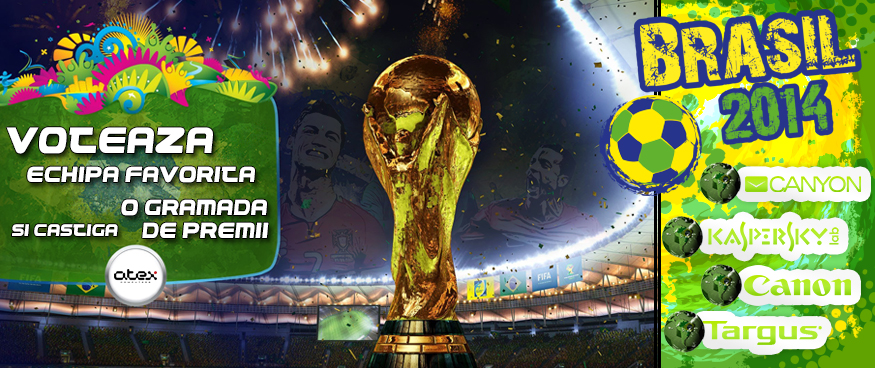
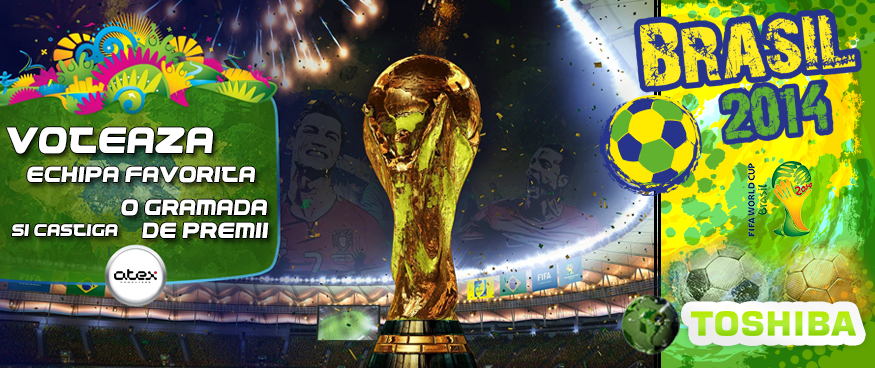
typos and promo updates

Changed region(s): [[0.7097, 0.4185, 1.0, 0.9864]]

diff --git a/atexpc/atex_web/templates/conditions.html b/atexpc/atex_web/templates/conditions.html
@@ -77,8 +77,8 @@
                                 <li class="red-title">Retururi in cazul comenzilor efectuate din alte localitati :</li>
                                 <li>
                                     <B>"Consumatorul are dreptul sa notifice in scris comerciantului ca renunta la cumparare, fara penalitati si fara invocarea unui motiv,
-                                    in termen de 10 zile lucratoare de la primirea produsului sau, in cazul prestarilor de servicii, de la incheierea contractului" </B><br />
-                                    •   Dupa terminarea celor 10 zile si pana la 30 de zile de la data receptionarii produsului veti avea dreptul sa returnati produsul  numai sub urmatoarele conditii: <br />
+                                    in termen de 14 zile lucratoare de la primirea produsului sau, in cazul prestarilor de servicii, de la incheierea contractului" </B><br />
+                                    •   Dupa terminarea celor 14 zile si pana la 30 de zile de la data receptionarii produsului veti avea dreptul sa returnati produsul  numai sub urmatoarele conditii: <br />
                                     •   Pastrati ambalajul produsului intact. Produsele sigilate in momentul cumpararii vor fi preluate ca produse 'BULK' ceea ce inseamna ca veti plati o penalizare de 40% din valoarea actualizata a produsului.<br />
                                     Produsele care au consumabile, se vor returna fara consumabil iar pretul consumabilelor se va scadea din suma returnata. <br />
                                     •   Va rugam sa verificati ca produsul returnat  este folosit in conformitate cu specificatiile enuntate in certificatul de garantie al produsului emis de  ATEX Computer SRL si instructiunile date de catre producator .<br />
@@ -104,8 +104,8 @@
                                 <li>
                                     Ai la dispozitie orice mijloc de plata care ti se potriveste! <br />
                                     - plata ramburs: platesti în numerar (lei) la livrare, catre comisionarul care efectueaza livrarea.<br />
-                                        Tarife Nemo : 6 lei primul Kg , 0.6 Lei urmatoarele Kg. <br />
-                                        Pentru plata ramburs se mai percepe un comision de 0.01% din valoarea produselor trimise. <br />
+                                        Tarife Nemo : 6 lei + TVA primul Kg , 0.6 lei + TVA urmatoarele Kg. <br />
+                                        Pentru plata ramburs se mai percepe un comision de 1% din valoarea produselor trimise plus taxa de primul kg (6 Lei + TVA). <br />
                                     - poti plati cash în unul din magazinele ATEX Computer<br />
                                     - poti plati cu ordin de plata specificând:<br />
                                     <br />
@@ -139,7 +139,7 @@
                                     •   Dupa acordul de incheiere a contractului, agentul economic trebuie sa trimita o confirmare  in scris. <br />
                                     •   Bunurile sau serviciile trebuie livrate in termen de 30 de zile cu exceptia in care partile au convenit altfel. <br />
                                     •   Daca produsul sau serviciul nu este disponibil agentul economic are obligatia de a notifica consumatorul asupra acestui lucru si de a returna in termen de 30 de zile toate sumele platite. <br />
-                                    •   Consumatorul are dreptul de a denunta unilateral contractul, in termen de 10 zile lucratoare.Termenul de 10 zile prevazut pentru exercitarea acestui drept incepe sa curga de la data primirii produselor si serviciilor  de catre consumator.<br />
+                                    •   Consumatorul are dreptul de a denunta unilateral contractul, in termen de 14 zile lucratoare.Termenul de 14 zile prevazut pentru exercitarea acestui drept incepe sa curga de la data primirii produselor si serviciilor  de catre consumator.<br />
                                     •   In cazul în care comerciantul a omis sa transmita consumatorului informatiile necesare, termenul de denuntare unilaterala este de 90 de zile de la data primirii produselor sau de la data incheierii contractului pentru prestarea serviciului.  <br />
                                     •   In cazul exercitarii dreptului de denuntare unilaterala a contractului de catre consumator, comerciantul are obligatia sa ramburseze sumele platite de consumator fara a-i solicita acestuia cheltuielile aferente rambursarii sumelor. <br />
                                     •   Rambursarea sumelor se va face in cel mult 30 de zile de la data denuntarii contractului de catre consumator.<br />

diff --git a/atexpc/atex_web/templates/contest.html b/atexpc/atex_web/templates/contest.html
@@ -1,11 +1,23 @@
-
 <head>
 <style type="text/css">
 .auto-style1 {
 	text-align: center;
 }
+.auto-style2 {
+	font-size: large;
+}
+.auto-style3 {
+	font-size: medium;
+}
+.auto-style5 {
+	background-color: #FFFFFF;
+}
+.auto-style6 {
+	font-size: x-large;
+}
 </style>
 </head>
+
 
 {% extends "base.html" %}
 
@@ -25,53 +37,7 @@
 {% block content %}
 <table style="width: 100%">
 	<tr>
-		<td class="auto-style1"><img src="{{ STATIC_PREFIX }}images/concurs_brasil_2014.jpg" align="center" width="auto" /></td>
-	</tr>
-	<tr>
-		<td class="auto-style1"><img src="{{ STATIC_PREFIX }}images/brasil_concurs2.png" align="center" width="auto" /></td>
-	</tr>
-	<tr>
-		<td class="auto-style1" style="height: 440px"><br><img src="{{ STATIC_PREFIX }}images/grupe.jpg" align="center" width="auto" /><br>
-		<br>
-		<a href="https://www.facebook.com/photo.php?fbid=674482792619750&amp;set=a.376957145705651.83524.134752229926145&amp;type=1&amp;theater" target="_blank">
-		<img src="{{ STATIC_PREFIX }}images/buton.png" align="center" width="auto" /></a><br>
-		<strong>Regulament:<br></strong><br>Alege-ti echipa favorita, 
-		inscrie-te cu ea in concurs, like &amp; share la concursul nostru de pe 		<a href="https://www.facebook.com/atexpc">facebook</a>.<br>Daca echipa 
-		care ai ales-o trece mai departe de faza grupelor, noi te premiem! 
-		Alegem un singur castigator pentru fiecare echipa, care va fi extras cu 
-		ajutorul site-ului <a href="http://www.random.org">www.random.org</a>.<br>
-		Nu te poti inscrie decat cu o singura echipa. Inscrierea se poate face 
-		pana la inceperea meciurilor din grupa din care echipa face parte. <br>
-		ex: Daca iti alegi Brazilia, te vei putea inscrie in concurs cu echipa 
-		Braziliei pana in 12.06.2014 ora 19:00.<br>&nbsp;Concursul va avea 5 etape: 
-		GRUPE, OPTIMI, SFERTURI, SEMIFINALA, FINALA. <br>Valoarea premilor este 
-		de aproximativ 6000 LEI.<br><br><strong>DACA PE PERIOADA CONCURSUL PLASEZI O COMANDA PE SITE-UL NOSTRU BENEFICIEZI DE INCA O SANSA, TI SE VOR ALOCA 2 NUMERE LA EXTRAGERE!!!</STRONG><br><strong><br>Premii: </strong><br>1 x
-		<a href="http://www.atexpc.ro/produs/54067-genti-si-huse-canyon-cnr-fnb02">
-		http://www.atexpc.ro/produs/54067-genti-si-huse-canyon-cnr-fnb02</a><br>
-		1 x
-		<a href="http://www.atexpc.ro/produs/48376-genti-si-huse-canyon-cnr-fnb01">
-		http://www.atexpc.ro/produs/48376-genti-si-huse-canyon-cnr-fnb01</a><br>
-		1 x
-		<a href="http://www.atexpc.ro/produs/54082-boxe-pc-canyon-cnr-sp20jb">
-		http://www.atexpc.ro/produs/54082-boxe-pc-canyon-cnr-sp20jb</a><br>1 x
-		<a href="http://www.atexpc.ro/produs/47983-casti-pc-canyon-cnr-hs01nb">
-		http://www.atexpc.ro/produs/47983-casti-pc-canyon-cnr-hs01nb</a><br>1 x
-		<a href="http://www.atexpc.ro/produs/54109-casti-pc-canyon-cnr-ep01n">
-		http://www.atexpc.ro/produs/54109-casti-pc-canyon-cnr-ep01n</a><br>1 x
-		<a href="http://www.atexpc.ro/produs/52766-card-reader-hub-usb-canyon-cnr-usbhub06n">
-		http://www.atexpc.ro/produs/52766-card-reader-hub-usb-canyon-cnr-usbhub06n</a><br>
-		1 x
-		<a href="http://www.atexpc.ro/produs/50447-calculator-birou-canon-kc-30-wh">
-		http://www.atexpc.ro/produs/50447-calculator-birou-canon-kc-30-wh</a><br>
-		5 x
-		<a href="http://www.atexpc.ro/produs/24157-antivirus-kaspersky-kms-box-1dthttp://www.atexpc.ro/produs/24157-antivirus-kaspersky-kms-box-1dt">
-		http://www.atexpc.ro/produs/24157-antivirus-kaspersky-kms-box-1dt</a><br>
-		2 x
-		<a href="http://www.atexpc.ro/produs/48253-genti-si-huse-targus-tes004euhttp://www.atexpc.ro/produs/48253-genti-si-huse-targus-tes004eu">
-		http://www.atexpc.ro/produs/48253-genti-si-huse-targus-tes004eu</a></td>
-	</tr>
-	<tr>
-		<td class="auto-style1">&nbsp;</td>
+		<td class="auto-style1"><img src="{{ STATIC_PREFIX }}images/PENDING.jpg" align="center" width="auto" /></td>
 	</tr>
 </table>
 

diff --git a/atexpc/atex_web/templates/home.html b/atexpc/atex_web/templates/home.html
@@ -62,13 +62,12 @@
                     </div>
             	</div>--><!-- end atex_bn -->
 				<ul class="bxslider">
-					<li><a href="/concurs/"><img src="{{ STATIC_PREFIX }}images/concurs_brasil_2014.jpg" alt="CONCURS BRASIL 2014" title="Cncors BRASIL 2014" /></a></li>
-					<li><a href="/cauta/?cuvinte=&cauta_in=&ordine=pret_asc&pe_pagina=20&stoc=True&categorie=425&filtre=Asus"><img src="{{ STATIC_PREFIX }}images/laptop_asus_promo.jpg" alt="Promotie laptop ASUS" title="Promotie laptop ASUS" /></a></li>
-				    <li><img src="{{ STATIC_PREFIX }}images/promotie_atex_sunet.png" alt="Promotie placa de sunet si boxe" title="Promotie placa de sunet si boxe" /></a></li>
-					<li><a href="/service"><img src="{{ STATIC_PREFIX }}images/service-it.jpg" alt="Service calculatoare - Constatare Gratuita" title="Service calculatoare - Constatare Gratuita" /></a></li>		
-					<li><a href="/produs/44112-ssd-solid-state-drive-kingston-sh103s3120g"><img src="{{ STATIC_PREFIX }}images/Promotie SSD Kingston 120 GB.png" alt="Promotie SSD Kingston 120 GB" title="Promotie SSD Kingston 120 GB" /></a></li>					
-				    <li><a href="/produs/32530-router-wireless-tp-link-tl-wr740n"><img src="{{ STATIC_PREFIX }}images/promoti_router_tplink.png" alt="promotie router tplink TL-WR740N" title="Promotie router TPLINK TL-WR740N" /></a></li>												
-					<li><a href="/produs/46576-multifunctionale-samsung-scx-3405f"><img src="{{ STATIC_PREFIX }}images/Promotie_imprimanta_samsung.jpg" alt="Promotie imprimanta SAMSUNG SCX-3405F" title="Promotie imprimanta SAMSUNG SCX-3405F" /></a></li>
+					<li><a href="http://www.atexpc.ro/produs/65299-laptop-hp-probook-430-g2-cu-procesor-intel-pentium-core-i5"><img src="{{ STATIC_PREFIX }}images/hp_probook_430.png" alt="HP ProBook 430" title="HP ProBook 430" /></a></li>
+					<li><a href="http://www.atexpc.ro/cauta/?cuvinte=&cauta_in=&ordine=pret_asc&pe_pagina=20&stoc=&categorie=552&pret=1&filtre=Apple"><img src="{{ STATIC_PREFIX }}images/iphone6.jpg" alt="iPhone 6" title="iPhone 6" /></a></li>
+					<li><a href="http://www.atexpc.ro/produs/49553-unitate-centrala-apple-mac-mini"><img src="{{ STATIC_PREFIX }}images/promotie_mac_mini.jpg" alt="Promotie Mac Mini" title="Promotie Mac Mini" /></a></li>
+					<li><img src="{{ STATIC_PREFIX }}images/promotie_intel.jpg" alt="Promotie Intel" title="Promotie Intel" /></a></li>
+					<li><a href="http://www.atexpc.ro/cauta/?cuvinte=&cauta_in=&ordine=pret_asc&pe_pagina=20&stoc=True&categorie=425"><img src="{{ STATIC_PREFIX }}images/laptop_asus_promo.jpg" alt="Promotie laptop ASUS" title="Promotie laptop ASUS" /></a></li>	
+				    <li><a href="/produs/37145-dual-band-wireless-asus-rt-n56u-black-diamond"><img src="{{ STATIC_PREFIX }}images/promotie_router_asus.png" alt="promotie router ASUS N56U" title="Promotie router ASUS N56U" /></a></li>												
 					<li><a href="/produs/50438-mouse-hp-x7000-wireless-negru"><img src="{{ STATIC_PREFIX }}images/Promotiemousehpx7000.png" alt="Promotie Mouse HP X7000" title="Promotie Mouse HP X7000" /></a></li>
 					<!--<li><a href="/produs/46903-hard-disk-western-digital-1tb-sata-iii-7200-rpm-64mb-caviar-blue/"><img src="{{ STATIC_PREFIX }}images/Hard Disk Western Digital.png" alt="Hard Disk Western Digital" title="Oferta Hard Disk Western Digital" /></a></li>-->
 				</ul>

diff --git a/atexpc/atex_web/templates/service.html b/atexpc/atex_web/templates/service.html
@@ -29,10 +29,10 @@
 								  •   Instalare driver componenta externa/ periferic(suport existent) <B>20 LEI - componenta</B><br />
 								  •   Devirusare sistem operare (fără reinstalarea programelor corupte) <B>50 LEI - sistem</B><br />
 								  •   Instalare/actualizare antivirus (inclusiv antispyware) <B>20 LEI - aplicatie</B><br />
-								  •   Clean UP (fisiere corupte, registrii corupti, etc.) <B>40 LEI - operatiune</B><br />
+								  •   Clean UP (fisiere corupte, registri corupti, etc.) <B>40 LEI - operatiune</B><br />
 								  •   Depanare sistem de operare (inclusiv rezolvare conflicte drivere) <B>30 LEI - operatiune</B><br />
 								  •   Instalare şi configurare E-mail/ browsing/ messenger <B>12 LEI - aplicatie</B><br />
-								  •   Import mesaje email + adress book <B>25 LEI - 1 GB</B><br />
+								  •   Import mesaje email + address book <B>25 LEI - 1 GB</B><br />
 								  •   Web searching (drivere, patch-uri, documentaţie) <B>12 LEI - aplicatie</B><br />
 								  •   (Re)partiţionare HDD <B>15 LEI - HDD</B><br />
 								  •   Transfer de date HDD-HDD <B>50 LEI - HDD</B><br />

diff --git a/atexpc/atex_web/templates/branduri.html b/atexpc/atex_web/templates/branduri.html
@@ -88,6 +88,18 @@
                         <h2>Lenovo Partner Business</h2>
                     </div>
                 </div>
+				<div class="view view-third">
+                    <img src="{{ STATIC_PREFIX }}images/certificari atex/adobe.jpg" alt="Adobe Partner Connection" />
+                    <div class="mask">
+                        <h2>Adobe Partner Connection</h2>
+                    </div>
+                </div>
+				<div class="view view-third">
+                    <img src="{{ STATIC_PREFIX }}images/certificari atex/alliedtelesis.jpg" alt="Allied Telesis Certified Partner" />
+                    <div class="mask">
+                        <h2>Allied Telesis Partner</h2>
+                    </div>
+                </div>
             </div>
     </div>
 	<div class="red-bottom"> 

diff --git a/atexpc/atex_web/templates/base.html b/atexpc/atex_web/templates/base.html
@@ -141,7 +141,7 @@ $(".fancybox")
                 </ul>
                 <ul class="configurator">
                 	<li>Acces Parteneri : </li>
-                     <li><a href="http://109.102.172.60:8765/profon/" target="_blank"><img src="{{ STATIC_PREFIX }}images/config-button.png" width="23" height="23" alt="Acces Parteneri" title="Acces Parteneri" /></a></li>
+                     <li><a href="http://ancora.atexpc.ro:8765/profon/" target="_blank"><img src="{{ STATIC_PREFIX }}images/config-button.png" width="23" height="23" alt="Acces Parteneri" title="Acces Parteneri" /></a></li>
                 </ul>
             </div> <!-- search bar end -->
             
